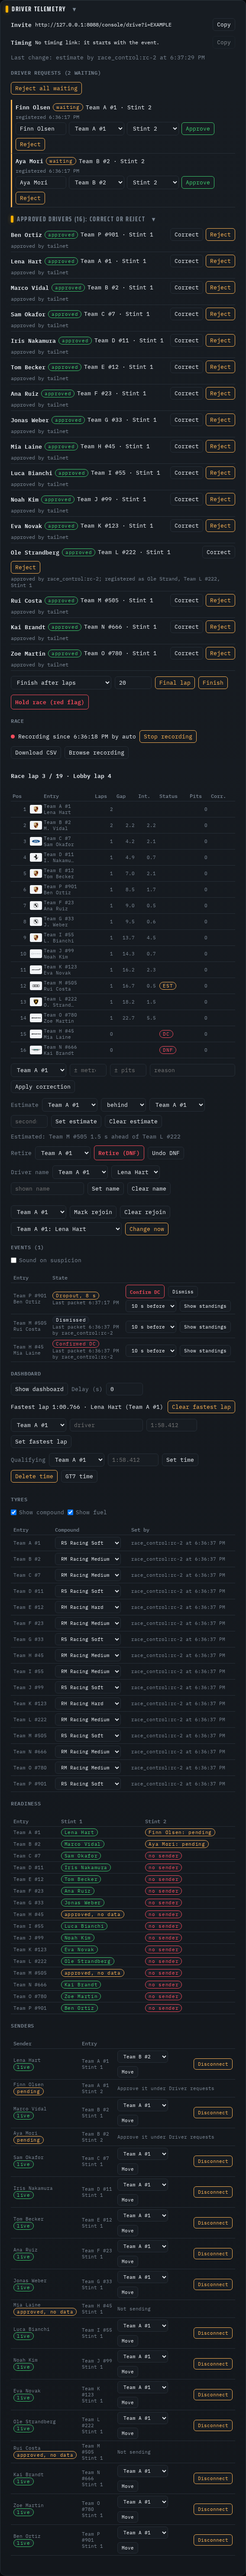
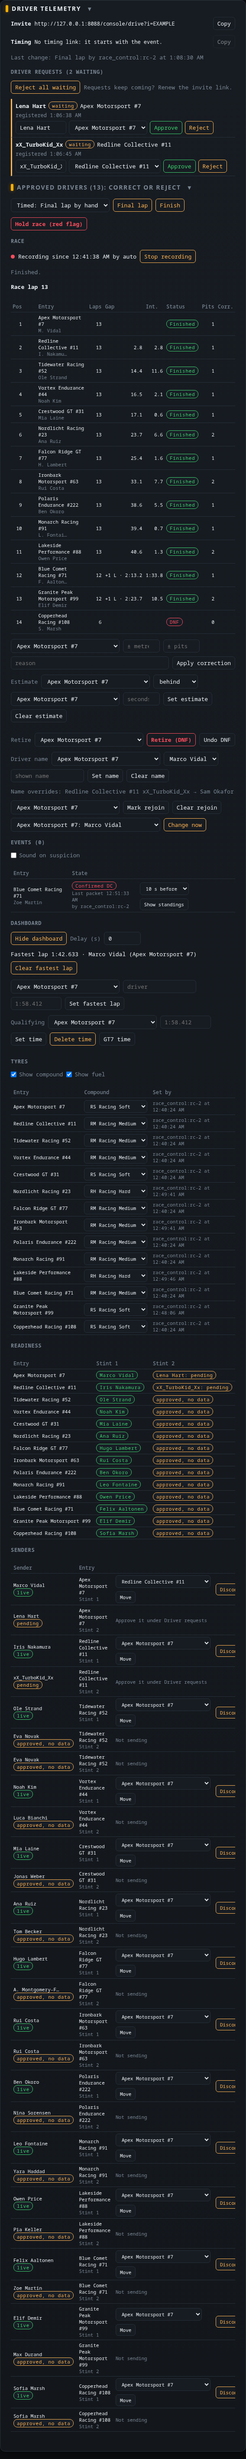
fix(panel): the driver desk tables keep their text colour in the panel
The Director Panel mounts the driver desk inside a `.urls` section,
whose `.urls td{color:var(--muted)}` greyed every desk cell, so the
qualifying and race tables looked stale while the Race Control desk
showed them in full colour. The desk cells now set the ink colour.
The wiki and slide screenshot of the section is refreshed.

diff --git a/src/console/driver-desk.js b/src/console/driver-desk.js
@@ -28,7 +28,8 @@
     ".dd input[type=checkbox]{width:auto;margin:0;padding:0}",
     ".dd label.check{display:inline-flex;align-items:center;gap:6px;cursor:pointer}",
     ".dd table{width:100%;border-collapse:collapse}",
-    ".dd th,.dd td{text-align:left;padding:4px 6px;border-bottom:1px solid var(--edge,#2a2f37);vertical-align:middle}",
+    ".dd th,.dd td{text-align:left;padding:4px 6px;border-bottom:1px solid var(--edge,#2a2f37);vertical-align:middle;",
+    "color:var(--ink,#e8eaed)}",
     ".dd th{color:var(--muted,#9aa0a6);font-weight:500;font-size:12px}",
     ".dd td.num{font-family:var(--mono,ui-monospace,monospace);text-align:right;white-space:nowrap}",
     ".dd .tbl{overflow-x:auto}",

diff --git a/tests/test_console.py b/tests/test_console.py
@@ -576,6 +576,19 @@ def t_the_desk_lap_line_shows_the_race_lap_and_the_lobby_lap():
         f"the race lap against the count, then GT7's lap of the lobby on air: {got}"
 
 
+def t_the_desk_tables_keep_their_own_text_colour_in_the_panel():
+    import re
+    with open(os.path.join(ROOT, "src", "console", "driver-desk.js"), encoding="utf-8") as fh:
+        block = fh.read().split("var CSS = [", 1)[1].split("].join", 1)[0]
+    css = "".join(re.findall(r'"([^"]*)"', block))
+    with open(os.path.join(ROOT, "src", "director", "director-panel.html"), encoding="utf-8") as fh:
+        panel = fh.read()
+    assert re.search(r"\.urls td\{[^}]*color:", panel), "the panel greys the cells of its .urls sections"
+    cells = re.search(r"\.dd th,\.dd td\{([^}]*)\}", css)
+    assert cells and "color:" in cells.group(1), \
+        f"desk cells set their own colour, else the panel's .urls td greys them: {cells and cells.group(1)}"
+
+
 def t_the_desk_names_a_qualifying_segment_once():
     got = _desk_fn("lapText", '["Qualifying", "qualifying 2", "Q1", ""].map(function (s) {'
                               ' return lapText({mode: "qualifying", segment: s}); })')
